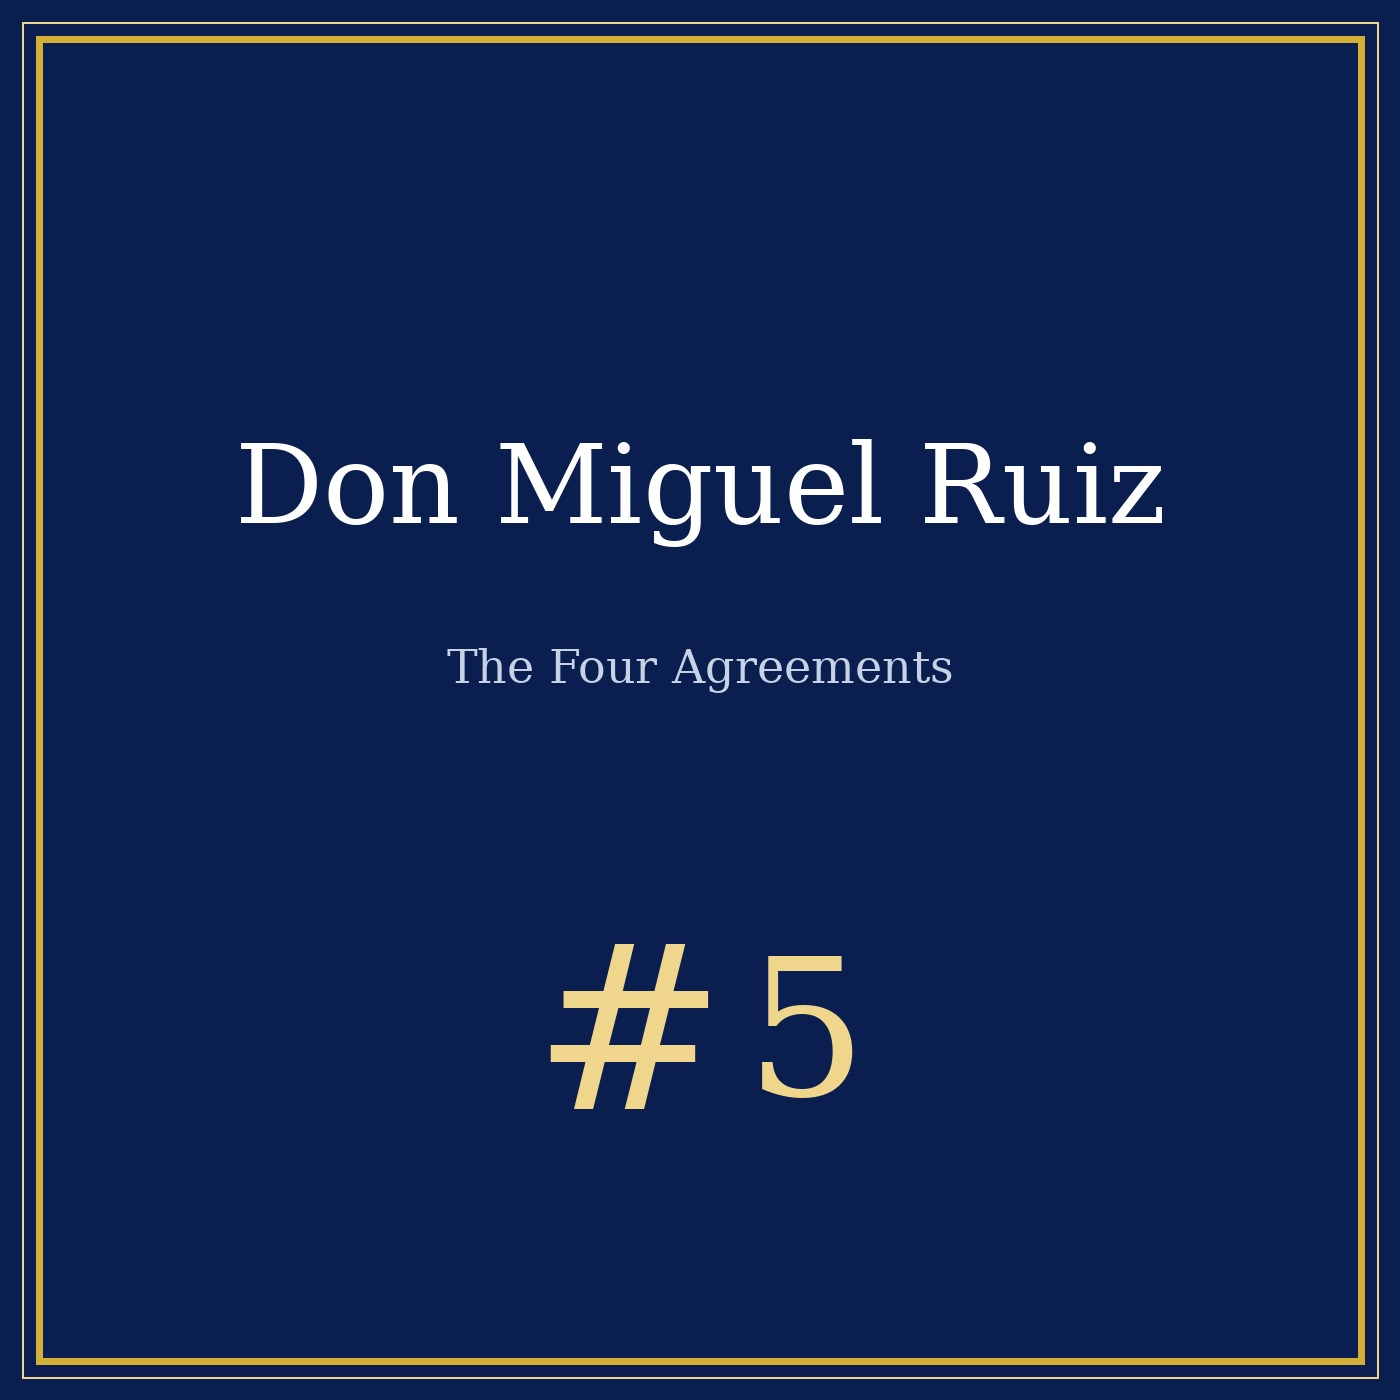
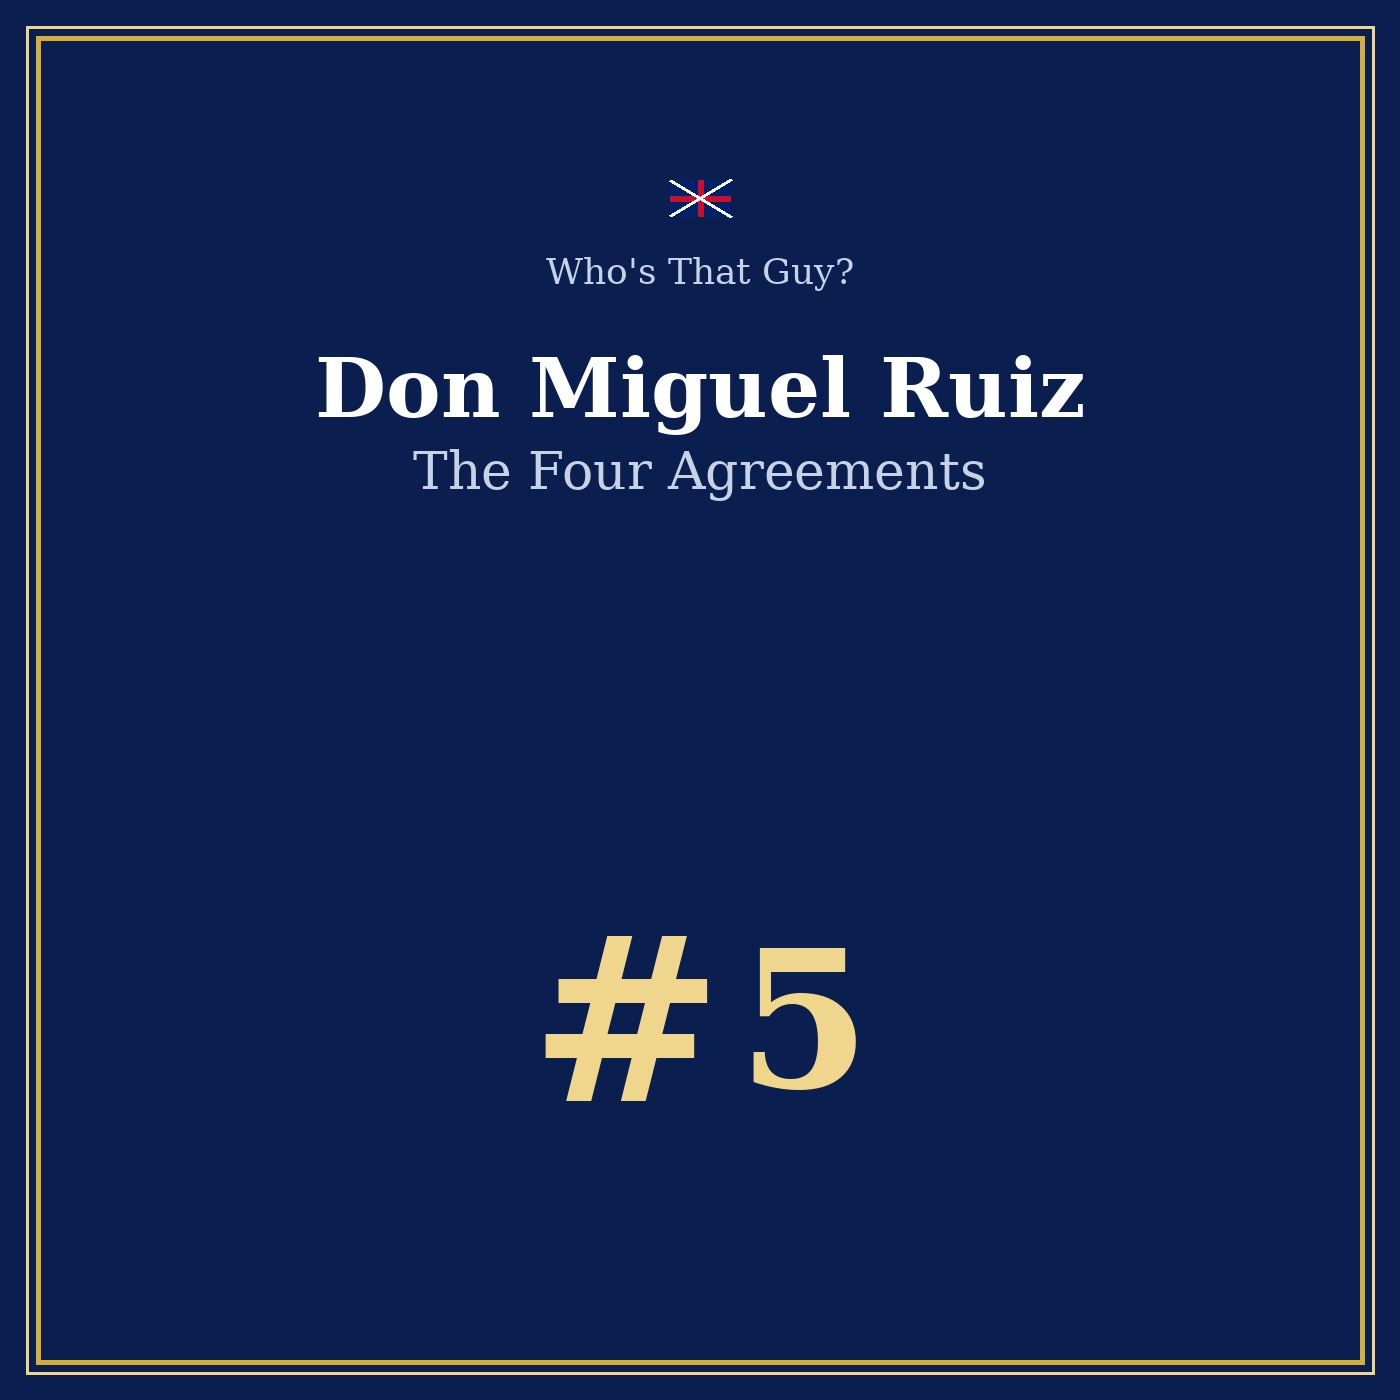
EN #5 Don Miguel Ruiz : article, pochette, carrousel 5 slides, description avec lien blog

diff --git a/en/don-miguel-ruiz.html b/en/don-miguel-ruiz.html
@@ -1,0 +1,68 @@
+<!DOCTYPE html>
+<html lang="en">
+<head>
+<meta charset="utf-8">
+<meta name="viewport" content="width=device-width, initial-scale=1">
+<title>Don Miguel Ruiz — The Four Agreements | Who's That Guy?</title>
+<meta name="description" content="Don Miguel Ruiz (born 1952), Mexican author and former surgeon, wrote The Four Agreements — one of the most widely read spiritual books of all time. From the operating room to Toltec wisdom: a documentary portrait.">
+<style>
+  :root { --bleu:#0A1E50; --pale:#C7D2E6; --num:#5F73B0; }
+  * { margin:0; padding:0; box-sizing:border-box; }
+  body { background:var(--bleu); color:#fff; font-family:Georgia,'Times New Roman',serif; line-height:1.65; }
+  .wrap { max-width:720px; margin:0 auto; padding:3rem 1.2rem 4rem; }
+  .marque { color:var(--pale); text-decoration:none; font-size:1.1rem; font-weight:bold; display:inline-block; margin-bottom:.3rem; } .marque:hover { color:#fff; }
+  h1 { margin-top:.8rem; font-size:clamp(1.6rem, 5vw, 2.4rem); }
+  .sous { color:var(--pale); font-style:italic; margin:.4rem 0 1.4rem; }
+  .avert { font-size:.8rem; color:var(--pale); border-left:3px solid var(--num); padding:.6rem 1rem; background:rgba(255,255,255,.05); border-radius:0 8px 8px 0; margin:1.2rem 0; }
+  h2 { margin:1.6rem 0 .4rem; font-size:1.25rem; }
+  p { margin:.7rem 0; }
+  .legende { color:var(--pale); font-size:.85em; font-style:italic; }
+  blockquote { border-left:3px solid var(--num); padding-left:1rem; margin:1rem 0; color:var(--pale); }
+  .retour { margin-top:2.5rem; }
+  .retour a { color:var(--pale); }
+</style>
+</head>
+<body>
+<div class="wrap">
+  <header>
+    <a class="marque" href="../index.html">Who's That Guy?</a>
+    <h1>Don Miguel Ruiz — The Four Agreements</h1>
+    <p class="sous">Episode 5 — a surgeon, a car crash, and four sentences that changed millions of lives</p>
+  </header>
+
+  <p class="avert">This program is a documentary portrait for educational and cultural purposes. Our analysis reformulates the four agreements and does not reproduce Don Miguel Ruiz's text, whose rights remain with the author.</p>
+
+<figure style="margin:1.6rem 0">
+  <img src="../img/en/don-miguel-ruiz-four-agreements.jpg" alt="Cover — Don Miguel Ruiz, episode 5" style="width:100%;max-width:420px;border-radius:10px;display:block;margin:0 auto">
+  <figcaption style="color:var(--pale,#C7D2E6);font-size:.82em;text-align:center;font-style:italic;margin-top:.45rem">Cover art — Don Miguel Ruiz: The Four Agreements</figcaption>
+</figure>
+
+  <p><em>🎧 Listen to the portrait:</em> <strong>Don Miguel Ruiz — The Four Agreements</strong>, 13 min 18 —
+  <a style="color:var(--pale)" href="https://open.spotify.com/show/04a6RHUSUE7cSylm1TDWho">Listen on Spotify →</a></p>
+
+  <h2>From the operating room to the highway</h2>
+  <p><strong>Miguel Ángel Ruiz</strong> was born in <strong>1952 in Guadalajara, Mexico</strong>, the youngest of thirteen children. His mother was a <em>curandera</em> (healer), his grandfather a Toltec <em>nagual</em> (shaman). But young Miguel wanted none of it — he became a <strong>surgeon</strong>, the rational counterpoint to his family's spiritual world. For years, he practiced medicine by day and taught his Toltec tradition by night, until a near-fatal car crash in the early 1970s changed everything.</p>
+  <blockquote>"I fell asleep at the wheel. When I woke up, I was not the same person."</blockquote>
+
+  <h2>Who were the real Toltecs?</h2>
+  <p>Before we talk about the agreements, a word on the Toltecs. The historical Toltecs were a <strong>pre-Columbian civilization centered at Tula</strong> (in present-day Hidalgo, Mexico), flourishing between roughly 900 and 1150 CE. They built pyramids, traded obsidian, and left behind warrior statues — the <em>atlantes</em>. The Aztecs later mythologized them as master craftsmen and artists: in Nahuatl, <em>Toltecayotl</em> means "the Toltec way," the art of living in balance. Ruiz belongs to a <strong>modern Toltec revival</strong> that draws on this heritage while blending it with twentieth-century self-help — a distinction he himself acknowledges.</p>
+
+  <h2>The Four Agreements, one by one</h2>
+  <p>Published in <strong>1997</strong>, <em>The Four Agreements</em> spent over a decade on the New York Times bestseller list. Here they are, with a look at what they really mean — and what psychology has to say:</p>
+
+  <p><strong>1. Be impeccable with your word.</strong> Speak with integrity. Say only what you mean. Avoid using the word against yourself or to gossip about others. Cognitive behavioral therapists call this the link between inner speech and self-esteem — the words you use shape the world you inhabit.</p>
+
+  <p><strong>2. Don't take anything personally.</strong> What others say and do is a projection of their own reality. When you are immune to the opinions and actions of others, you won't be the victim of needless suffering. Psychologists recognize this as <strong>externalization</strong> — separating your self-worth from others' behavior, a cornerstone of resilience training.</p>
+
+  <p><strong>3. Don't make assumptions.</strong> Find the courage to ask questions and express what you really want. Communicate clearly to avoid misunderstandings. This maps directly onto <strong>cognitive reframing</strong>: the habit of checking your interpretations against reality rather than building stories in your head.</p>
+
+  <p><strong>4. Always do your best.</strong> Your best changes from moment to moment — when you're healthy versus sick, rested versus tired. Under any circumstance, simply do your best, and you will avoid self-judgment, self-abuse, and regret. This is the <strong>self-compassion</strong> that researchers like Kristin Neff have documented as protective against depression and anxiety.</p>
+
+  <h2>The critical eye</h2>
+  <p>Ruiz's work has been criticized for its loose handling of Toltec history and its debt to earlier self-help traditions — echoes of Carlos Castaneda, of New Thought, of cognitive therapy rebranded in spiritual language. None of this diminishes the book's impact: with over <strong>10 million copies sold</strong> in 46 languages, <em>The Four Agreements</em> has helped millions reframe their inner dialogue. The question is not whether Ruiz invented these ideas — he didn't — but whether his synthesis has made them accessible to people who would never pick up a psychology textbook. On that count, the answer is plainly yes.</p>
+
+  <p class="legende">Sources: Wikipedia (Don Miguel Ruiz, The Four Agreements, Toltec), BNF. Fact-checked October 2026.</p>
+  <p class="retour"><a href="../en/index.html">← All episodes</a> · <a href="../index.html">🇫🇷 « Qui c'est celui-là ? »</a></p>
+</div>
+</body>
+</html>

diff --git a/en/index.html b/en/index.html
@@ -31,17 +31,21 @@
   .dots span:nth-child(3) { animation:dot3 20s infinite; }
   .dots span:nth-child(4) { animation:dot4 20s infinite; }
 
+  .dots span:nth-child(5) { animation:dot5 20s infinite; }
+
   @keyframes defile {
-     0%,20%  { transform:translateX(0); }
-    25%,45%  { transform:translateX(-100%); }
-    50%,70%  { transform:translateX(-200%); }
-    75%,95%  { transform:translateX(-300%); }
+     0%,16%  { transform:translateX(0); }
+    20%,36%  { transform:translateX(-100%); }
+    40%,56%  { transform:translateX(-200%); }
+    60%,76%  { transform:translateX(-300%); }
+    80%,96%  { transform:translateX(-400%); }
     100%     { transform:translateX(0); }
   }
-  @keyframes dot1 { 0%,20% { background:var(--gold); } 25%,100% { background:rgba(255,255,255,.25); } }
-  @keyframes dot2 { 0%,20% { background:rgba(255,255,255,.25); } 25%,45% { background:var(--gold); } 50%,100% { background:rgba(255,255,255,.25); } }
-  @keyframes dot3 { 0%,45% { background:rgba(255,255,255,.25); } 50%,70% { background:var(--gold); } 75%,100% { background:rgba(255,255,255,.25); } }
-  @keyframes dot4 { 0%,70% { background:rgba(255,255,255,.25); } 75%,95% { background:var(--gold); } 100% { background:rgba(255,255,255,.25); } }
+  @keyframes dot1 { 0%,16% { background:var(--gold); } 20%,100% { background:rgba(255,255,255,.25); } }
+  @keyframes dot2 { 0%,16% { background:rgba(255,255,255,.25); } 20%,36% { background:var(--gold); } 40%,100% { background:rgba(255,255,255,.25); } }
+  @keyframes dot3 { 0%,36% { background:rgba(255,255,255,.25); } 40%,56% { background:var(--gold); } 60%,100% { background:rgba(255,255,255,.25); } }
+  @keyframes dot4 { 0%,56% { background:rgba(255,255,255,.25); } 60%,76% { background:var(--gold); } 80%,100% { background:rgba(255,255,255,.25); } }
+  @keyframes dot5 { 0%,76% { background:rgba(255,255,255,.25); } 80%,96% { background:var(--gold); } 100% { background:rgba(255,255,255,.25); } }
 
   main { max-width:760px; width:100%; padding:1rem 1rem 4rem; }
   h2 { margin:1.6rem 0 .4rem; font-size:1.25rem; }
@@ -68,6 +72,7 @@
 
   <div class="carrousel">
     <div class="carrousel-track">
+      <a href="don-miguel-ruiz.html"><img src="../img/en/don-miguel-ruiz-four-agreements.jpg" alt="Don Miguel Ruiz — Episode 5" loading="lazy"></a>
       <a href="432-vs-440.html"><img src="../img/en/432hz-vs-440hz-battle-of-the-pitch-pipes.jpg" alt="432 Hz vs 440 Hz — Episode 1" loading="lazy"></a>
       <a href="https://open.spotify.com/show/04a6RHUSUE7cSylm1TDWho"><img src="../img/en/alfred-tomatis-man-who-taught-us-to-listen.jpg" alt="Alfred Tomatis — Episode 2" loading="lazy"></a>
       <a href="https://open.spotify.com/show/04a6RHUSUE7cSylm1TDWho"><img src="../img/en/rene-quinton-children-of-the-sea.jpg" alt="René Quinton — Episode 3" loading="lazy"></a>
@@ -75,9 +80,10 @@
     </div>
   </div>
   <p class="carrousel-legende">Episode covers — click to read the article or listen on Spotify</p>
-  <div class="dots"><span></span><span></span><span></span><span></span></div>
+  <div class="dots"><span></span><span></span><span></span><span></span><span></span></div>
 
   <main>
+    <a class="ep" href="don-miguel-ruiz.html"><span class="num">#5</span>Don Miguel Ruiz — The Four Agreements<span class="theme">A surgeon, a car crash, and four sentences that changed millions</span></a>
     <a class="ep" href="432-vs-440.html"><span class="num">#1</span>432 Hz vs 440 Hz — The Battle of the Pitch Pipes<span class="theme">Verdi's decree, London 1939, ISO 16 — the true history</span></a>
     <a class="ep" href="https://open.spotify.com/show/04a6RHUSUE7cSylm1TDWho"><span class="num">#2</span>Alfred Tomatis — The Man Who Taught Us to Listen<span class="theme">The electronic ear, the Mozart effect — portrait</span></a>
     <a class="ep" href="https://open.spotify.com/show/04a6RHUSUE7cSylm1TDWho"><span class="num">#3</span>René Quinton — Children of the Sea<span class="theme">Marine plasma, the arcachonnaises clinics — portrait</span></a>
